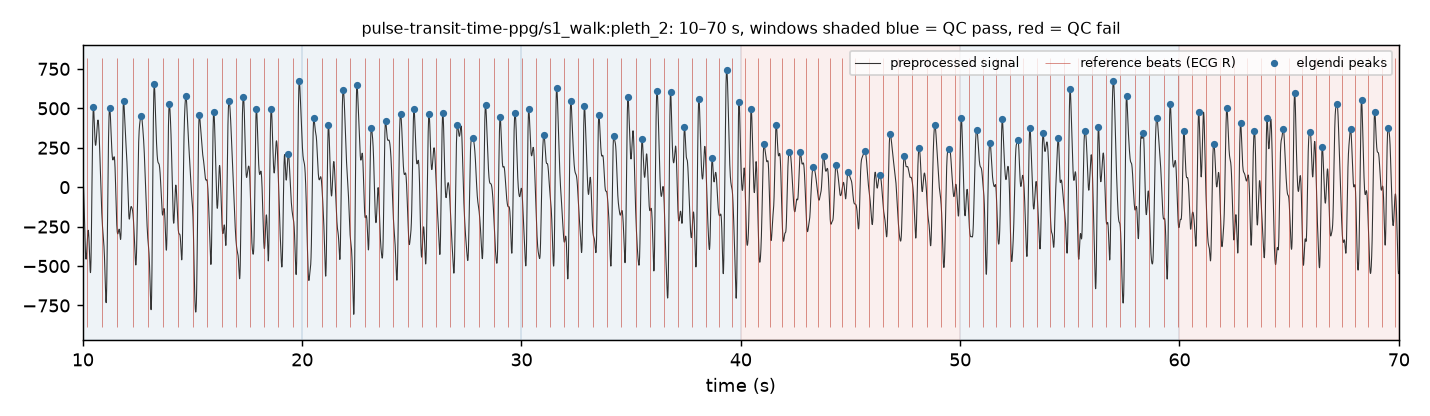
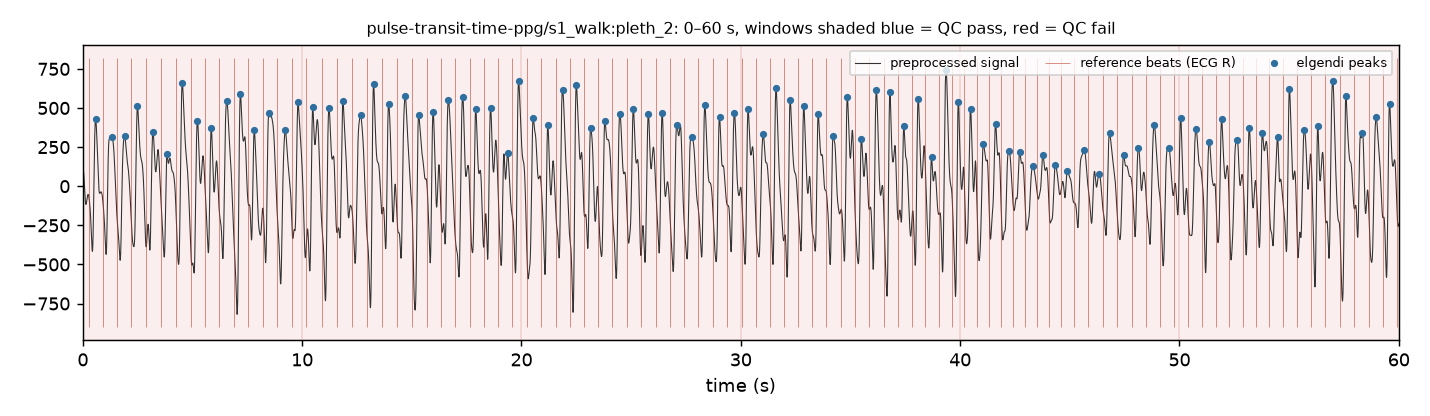
Add accelerometer motion rule and held-out comparison against periodicity

diff --git a/tests/test_pipeline.py b/tests/test_pipeline.py
@@ -39,13 +39,13 @@ def test_run_produces_outputs_and_scores(first_run):
     assert per_rec["synthetic/clipped_a:signal"] == 0.0
     assert per_rec["synthetic/dropout_a:signal"] < 1.0
     # every stage ran once per record on a cold cache
-    assert all(v["misses"] == 5 and v["hits"] == 0 for v in r.cache_summary.values())
+    assert all(v["misses"] == 6 and v["hits"] == 0 for v in r.cache_summary.values())
 
 
 def test_second_run_is_all_cache_hits(first_run, cfg):
     root, _ = first_run
     r2 = run(cfg, root=root)
-    assert all(v["hits"] == 5 and v["misses"] == 0 for v in r2.cache_summary.values())
+    assert all(v["hits"] == 6 and v["misses"] == 0 for v in r2.cache_summary.values())
 
 
 def test_changed_qc_config_reruns_only_qc_and_evaluate(first_run, cfg):
@@ -54,11 +54,11 @@ def test_changed_qc_config_reruns_only_qc_and_evaluate(first_run, cfg):
     cfg2["qc"]["rules"][0]["max_frac"] = 0.5  # loosen nan_dropout
     r2 = run(cfg2, root=root)
     s = r2.cache_summary
-    assert s["preprocess"] == {"hits": 5, "misses": 0}
-    assert s["detect:elgendi"] == {"hits": 5, "misses": 0}
-    assert s["detect:prominence"] == {"hits": 5, "misses": 0}
-    assert s["qc"] == {"hits": 0, "misses": 5}
-    assert s["evaluate:elgendi"] == {"hits": 0, "misses": 5}
+    assert s["preprocess"] == {"hits": 6, "misses": 0}
+    assert s["detect:elgendi"] == {"hits": 6, "misses": 0}
+    assert s["detect:prominence"] == {"hits": 6, "misses": 0}
+    assert s["qc"] == {"hits": 0, "misses": 6}
+    assert s["evaluate:elgendi"] == {"hits": 0, "misses": 6}
     assert config_fingerprint(cfg2) != config_fingerprint(cfg)
     assert r2.run_dir != run(cfg, root=root).run_dir
 
@@ -69,10 +69,10 @@ def test_new_detector_reruns_only_that_detector(first_run, cfg):
     cfg2["detectors"].append({"name": "msptd"})
     r2 = run(cfg2, root=root)
     s = r2.cache_summary
-    assert s["detect:msptd"] == {"hits": 0, "misses": 5}
-    assert s["evaluate:msptd"] == {"hits": 0, "misses": 5}
-    assert s["detect:elgendi"] == {"hits": 5, "misses": 0}
-    assert s["qc"] == {"hits": 5, "misses": 0}
+    assert s["detect:msptd"] == {"hits": 0, "misses": 6}
+    assert s["evaluate:msptd"] == {"hits": 0, "misses": 6}
+    assert s["detect:elgendi"] == {"hits": 6, "misses": 0}
+    assert s["qc"] == {"hits": 6, "misses": 0}
 
 
 def test_changed_preprocess_reruns_detect_but_not_qc(first_run, cfg):
@@ -80,9 +80,9 @@ def test_changed_preprocess_reruns_detect_but_not_qc(first_run, cfg):
     cfg2 = copy.deepcopy(cfg)
     cfg2["preprocess"]["band_hz"] = [0.5, 6.0]
     s = run(cfg2, root=root).cache_summary
-    assert s["preprocess"]["misses"] == 5
-    assert s["detect:elgendi"]["misses"] == 5
-    assert s["qc"] == {"hits": 5, "misses": 0}
+    assert s["preprocess"]["misses"] == 6
+    assert s["detect:elgendi"]["misses"] == 6
+    assert s["qc"] == {"hits": 6, "misses": 0}
 
 
 def test_output_dir_does_not_affect_fingerprint(cfg):
@@ -110,7 +110,7 @@ def test_cli_run_and_report(tmp_path):
     runner = CliRunner()
     res = runner.invoke(app, ["run", str(CONFIG), "--root", str(tmp_path), "--no-figures"])
     assert res.exit_code == 0, res.output
-    assert "misses=5" in res.output and "F1=" in res.output
+    assert "misses=6" in res.output and "F1=" in res.output
     run_dir = next((tmp_path / "runs").iterdir())
     res = runner.invoke(app, ["report", str(run_dir), "--no-figures"])
     assert res.exit_code == 0, res.output
@@ -135,4 +135,4 @@ def test_cli_compare(tmp_path):
 def test_cache_object_can_be_shared(cfg, tmp_path):
     cache = Cache(tmp_path / "c")
     run(cfg, cache=cache, root=tmp_path)
-    assert cache.stage_summary()["qc"]["misses"] == 5
+    assert cache.stage_summary()["qc"]["misses"] == 6

diff --git a/src/pulse_qc/holdout.py b/src/pulse_qc/holdout.py
@@ -25,10 +25,12 @@ import pandas as pd
 #: name -> (parameter name, direction in which the rule FAILS).
 THRESHOLD_RULES: dict[str, tuple[str, str]] = {
     "periodicity": ("min_acf", "below"),
+    "motion": ("max_std_g", "above"),
 }
 
 DEFAULT_CANDIDATES: dict[str, np.ndarray] = {
     "periodicity": np.round(np.arange(0.30, 0.86, 0.05), 2),
+    "motion": np.round(np.geomspace(0.005, 3.0, 40), 4),
 }
 
 
@@ -222,6 +224,42 @@ def write_holdout(run_dir: Path, rules: list[str], bad_f1: float = 0.9) -> Path:
         res.folds.to_csv(Path(run_dir) / f"holdout_{rule}_folds.csv", index=False)
         res.summary.to_csv(Path(run_dir) / f"holdout_{rule}_summary.csv", index=False)
         res.auc.to_csv(Path(run_dir) / f"holdout_{rule}_auc.csv", index=False)
+    if len(results) > 1:
+        md.append("## Which rule explains the errors better?")
+        md.append("")
+        md.append(
+            "Same windows, same beats, same held-out protocol. AUC says how well the raw value "
+            "ranks bad windows; the gain and the beats kept say what a held-out threshold buys."
+        )
+        md.append("")
+        rows = []
+        for rule, res in results.items():
+            gt = gating_table(res.summary)
+            for act in list(dict.fromkeys(gt["activity"])):
+                sub = gt[gt["activity"] == act]
+                a = res.auc.set_index("activity")["auc"].get(act, np.nan)
+                rows.append(
+                    {
+                        "rule": rule,
+                        "activity": act,
+                        "AUC": a,
+                        "F1 (all)": float(sub["F1 (all)"].mean()),
+                        "F1 (passed, held-out)": float(sub["F1 (passed)"].mean()),
+                        "beats kept": float(sub["beats (passed)"].sum() / sub["beats (all)"].sum())
+                        if sub["beats (all)"].sum()
+                        else np.nan,
+                    }
+                )
+        cmp_df = pd.DataFrame(rows)
+        order = {"all": 0, "sit": 1, "walk": 2, "run": 3}
+        cmp_df["_o"] = cmp_df["activity"].map(lambda a: order.get(a, 9))
+        cmp_df = cmp_df.sort_values(
+            ["activity", "rule"], key=lambda c: c.map(order) if c.name == "activity" else c
+        )
+        cmp_df = cmp_df.drop(columns="_o")
+        md.append(_md_table(cmp_df, list(cmp_df.columns), {"beats kept": lambda v: f"{v:.0%}"}))
+        md.append("")
+        cmp_df.to_csv(Path(run_dir) / "holdout_comparison.csv", index=False)
     out = Path(run_dir) / "holdout.md"
     out.write_text("\n".join(md))
     return out

diff --git a/tests/test_rules.py b/tests/test_rules.py
@@ -6,6 +6,7 @@ from pulse_qc.qc.rules import (
     _longest_run,
     clipping,
     flatline,
+    motion,
     nan_dropout,
     periodicity,
     plausible_range,
@@ -31,6 +32,7 @@ def test_registry_lists_every_rule():
         "clipping",
         "plausible_range",
         "periodicity",
+        "motion",
     }
 
 
@@ -157,3 +159,30 @@ class TestPeriodicity:
         t = np.arange(0, 10, 1 / FS)
         y = np.sin(2 * np.pi * 0.2 * t)  # 12 beats/min: too slow to be a pulse
         assert not periodicity(y, FS, lag_range_s=(0.3, 2.0)).passed
+
+
+class TestMotion:
+    def _aux(self, sd, n=1000, seed=0):
+        rng = np.random.default_rng(seed)
+        return {
+            "a_x": rng.normal(0, sd, n),
+            "a_y": rng.normal(0, sd, n),
+            "a_z": 1.0 + rng.normal(0, sd, n),
+        }
+
+    def test_still_passes_and_shaking_fails(self):
+        x = np.zeros(1000)
+        assert motion(x, FS, aux=self._aux(0.005), max_std_g=0.1).passed
+        r = motion(x, FS, aux=self._aux(0.3), max_std_g=0.1)
+        assert not r.passed and "motion" in r.reason and r.value > 0.1
+
+    def test_orientation_independent(self):
+        aux = self._aux(0.005)
+        rotated = {"a_x": aux["a_z"], "a_y": aux["a_x"], "a_z": aux["a_y"]}
+        a = motion(np.zeros(1000), FS, aux=aux).value
+        b = motion(np.zeros(1000), FS, aux=rotated).value
+        assert a == pytest.approx(b)
+
+    def test_missing_channel_fails_loudly(self):
+        r = motion(np.zeros(10), FS, aux={"a_x": np.zeros(10)})
+        assert not r.passed and "missing" in r.reason and np.isnan(r.value)

diff --git a/src/pulse_qc/qc/rules.py b/src/pulse_qc/qc/rules.py
@@ -15,7 +15,7 @@ from dataclasses import dataclass
 
 import numpy as np
 
-RULES_VERSION = 2  # 2: added `periodicity`
+RULES_VERSION = 3  # 2: added `periodicity`; 3: added `motion`
 
 
 @dataclass(frozen=True)
@@ -166,3 +166,33 @@ def periodicity(
 
 
 RULES["periodicity"] = periodicity
+
+
+def motion(
+    x: np.ndarray,
+    fs: float,
+    *,
+    aux: dict[str, np.ndarray],
+    channels: tuple[str, ...] = ("a_x", "a_y", "a_z"),
+    max_std_g: float = 0.1,
+) -> RuleResult:
+    """Fail when the accelerometer says the sensor was moving.
+
+    Uses auxiliary channels (loaded alongside the signal with ``aux_channels`` in the
+    config): the value is the standard deviation of the acceleration vector magnitude
+    over the window, in g, which is orientation-independent and zero for a still
+    sensor regardless of how it is held. A missing channel is a failure with a reason,
+    not a silent pass."""
+    missing = [c for c in channels if c not in aux]
+    if missing:
+        return RuleResult(False, float("nan"), f"accelerometer channels missing: {missing}")
+    mag = np.sqrt(sum(np.asarray(aux[c], dtype=float) ** 2 for c in channels))
+    finite = mag[np.isfinite(mag)]
+    if finite.size < 2:
+        return RuleResult(False, float("nan"), "no finite accelerometer samples")
+    sd = float(finite.std())
+    ok = sd <= max_std_g
+    return RuleResult(ok, sd, "" if ok else f"motion {sd:.3f} g RMS (max {max_std_g:.3f} g)")
+
+
+RULES["motion"] = motion

diff --git a/tests/test_holdout.py b/tests/test_holdout.py
@@ -67,6 +67,11 @@ def synthetic_run(tmp_path_factory):
 def test_loso_on_synthetic(synthetic_run):
     r = synthetic_run
     assert set(r.window_qc["subject"]) == {"a", "b"}
+    # the synthetic accelerometer shakes in the second half of the motion_b record only
+    mb = r.window_qc[r.window_qc["record"] == "synthetic/motion_b:signal"].set_index("window")
+    assert (mb.loc[:2, "motion"] < 0.05).all() and (mb.loc[3:, "motion"] > 0.1).all()
+    others = r.window_qc[r.window_qc["record"] != "synthetic/motion_b:signal"]
+    assert (others["motion"] < 0.05).all()
     res = loso(r.window_qc, r.beat_counts, "periodicity")
     assert sorted(res.folds["held_out_subject"]) == ["a", "b"]
     assert len(res.gated_windows) == len(r.window_qc)
@@ -87,9 +92,12 @@ def test_loso_rejects_unknown_rule(synthetic_run):
 
 def test_write_holdout_and_cli(synthetic_run):
     r = synthetic_run
-    out = write_holdout(r.run_dir, ["periodicity"])
+    out = write_holdout(r.run_dir, ["periodicity", "motion"])
     md = out.read_text()
     assert "Per fold" in md and "held_out_subject" in md
+    assert "Which rule explains the errors better?" in md
+    assert (r.run_dir / "holdout_comparison.csv").exists()
+    assert (r.run_dir / "fig_f1_heldout_motion.png").exists()
     assert (r.run_dir / "holdout_periodicity_folds.csv").exists()
     res = CliRunner().invoke(app, ["holdout", str(r.run_dir)])
     assert res.exit_code == 0, res.output

diff --git a/tests/test_engine.py b/tests/test_engine.py
@@ -69,3 +69,19 @@ def test_window_index_of():
     s = np.array([0, 199, 200, 999, 1000, 5000])
     assert window_index_of(s, w).tolist() == [0, 0, 1, 4, -1, -1]
     assert window_index_of(s, w[:0]).tolist() == [-1] * 6
+
+
+def test_engine_passes_aux_to_rules_that_want_it(clean):
+    fs = clean.fs
+    n = len(clean.signal)
+    aux = {
+        "a_x": np.zeros(n),
+        "a_y": np.zeros(n),
+        "a_z": np.r_[np.ones(n // 2), 1 + np.random.default_rng(0).normal(0, 0.5, n - n // 2)],
+    }
+    rs = RuleSet.from_config(
+        {"rules": [{"name": "motion", "max_std_g": 0.1}, {"name": "nan_dropout"}]}
+    )
+    df = apply_rules(clean.signal, fs, make_windows(n, fs, 10.0), rs, aux=aux)
+    assert df["passed"].tolist() == [True, True, True, False, False, False]
+    assert df.loc[3, "reasons"].startswith("motion:")

diff --git a/src/pulse_qc/pipeline.py b/src/pulse_qc/pipeline.py
@@ -112,7 +112,7 @@ def _synthetic_record(name: str, channel: str = "signal", aux: tuple[str, ...] =
     for a in aux:
         quiet = rng.normal(0, 0.005, len(x))
         shaking = rng.normal(0, 0.3, len(x))
-        half = len(x) // 2
+        half = len(x) // 2 if name.startswith("motion") else len(x)
         aux_data[a] = np.where(np.arange(len(x)) < half, quiet, shaking) + (
             1.0 if a.endswith("_z") else 0.0
         )

diff --git a/README.md b/README.md
@@ -73,6 +73,33 @@ run's `report.md`; `pulse-qc holdout <run>` writes the held-out one.
 
 ![Held-out F1 by activity, with and without quality gating](docs/fig_f1_heldout_periodicity.png)
 
+### Does motion explain the errors better than periodicity?
+
+The PTT-PPG device carries an accelerometer, so there is a second, independent way to
+gate: a `motion` rule that fails a window when the standard deviation of the acceleration
+magnitude exceeds a threshold. Same windows, same beats, same leave-one-subject-out
+protocol, thresholds chosen on the other five subjects each time. AUC is how well the raw
+rule value ranks the bad windows (mean beat F1 below 0.9) within that activity.
+
+| activity | AUC motion | AUC periodicity | F1 all | F1 passed (motion) | beats kept | F1 passed (periodicity) | beats kept |
+|---|---|---|---|---|---|---|---|
+| sit | 0.74 | 0.49 | 0.982 | 0.982 | 100% | 0.982 | 97% |
+| walk | 0.73 | 0.88 | 0.906 | 0.950 | 50% | 0.978 | 53% |
+| run | 0.64 | 0.63 | 0.934 | – | 0% | 0.944 | 76% |
+| all | 0.72 | 0.77 | 0.939 | 0.971 | 47% | 0.967 | 74% |
+
+The accelerometer tells you *whether the subject was moving*, which is not the same as
+whether beat detection failed. Motion is uniformly high while running (0.9–5 g RMS) yet
+most running windows detect fine (F1 0.93), so any motion threshold that removes the bad
+walking windows removes every running window too. Within an activity, the signal's own
+periodicity ranks the bad walking windows better (AUC 0.88 vs 0.73), and neither rule
+ranks the running errors well (0.63 vs 0.64). Motion wins only while sitting, where there
+is almost nothing to fix. So on this data the signal-derived rule is the more useful gate,
+and the honest reading of the running errors is that they are not explained by either
+rule yet.
+
+![Held-out F1 with the motion rule](docs/fig_f1_heldout_motion.png)
+
 ![Example record with QC windows shaded](docs/fig_example_qc.png)
 
 A second config (`configs/bidmc.yaml`) runs the same rules and detectors on five BIDMC
@@ -138,8 +165,9 @@ load  ->  preprocess  ->  detect (x3)  ->  evaluate (x3)
   HTTP range requests instead of downloaded. Demographic header fields are dropped on read.
 - **QC rules** (`qc/rules.py`): pure functions of one window and the sampling rate,
   registered by name, parametrised from YAML. `nan_dropout`, `sampling_gap`, `flatline`,
-  `clipping`, `plausible_range`, `periodicity`. Each returns pass/fail, the value the
-  decision was made on, and a reason string. Every rule has unit tests on synthetic
+  `clipping`, `plausible_range`, `periodicity`, and `motion` (which reads auxiliary
+  accelerometer channels). Each returns pass/fail, the value the decision was made on, and
+  a reason string. Every rule has unit tests on synthetic
   signals with injected faults.
 - **Cache** (`cache.py`): every stage result is stored under a key made from the raw file
   hashes, the relevant config section, and the source code of the stage. Changing a QC
@@ -209,5 +237,4 @@ licences as above.
 
 ## Next
 
-- Rules that use auxiliary channels (the PTT-PPG set has an IMU; motion is what actually
-  breaks these windows).
+- A rule that explains the running errors; neither motion nor periodicity does.

diff --git a/CLAUDE.md b/CLAUDE.md
@@ -16,5 +16,9 @@ Read `README.md` first; this file is only what is not obvious from it.
   the 254k-sample records. `elgendi` and `charlton` (MSPTD) are fine.
 - **Raw MAX30101 PPG in PTT-PPG dips at systole**: `preprocess.invert: true` in that config.
   BIDMC `PLETH` is already upright.
-- The `periodicity` rule's threshold (0.5) was chosen on the same six PTT-PPG subjects used
-  for evaluation. Say so wherever its numbers are quoted.
+- Thresholds for `periodicity` and `motion` in `configs/ptt-ppg.yaml` are the leave-one-subject-out
+  consensus from `pulse-qc holdout`; the README quotes the held-out numbers, `report.md` is
+  in-sample. Rerun `holdout` after touching either rule. The motion candidate grid is log-spaced
+  because walking and running differ by an order of magnitude in g.
+- CHARIS is streamed as 2 h segments (`segment:` in the config); no whole-file checksum is
+  possible for a segment, so provenance records the SHA-256 of the cached samples.
